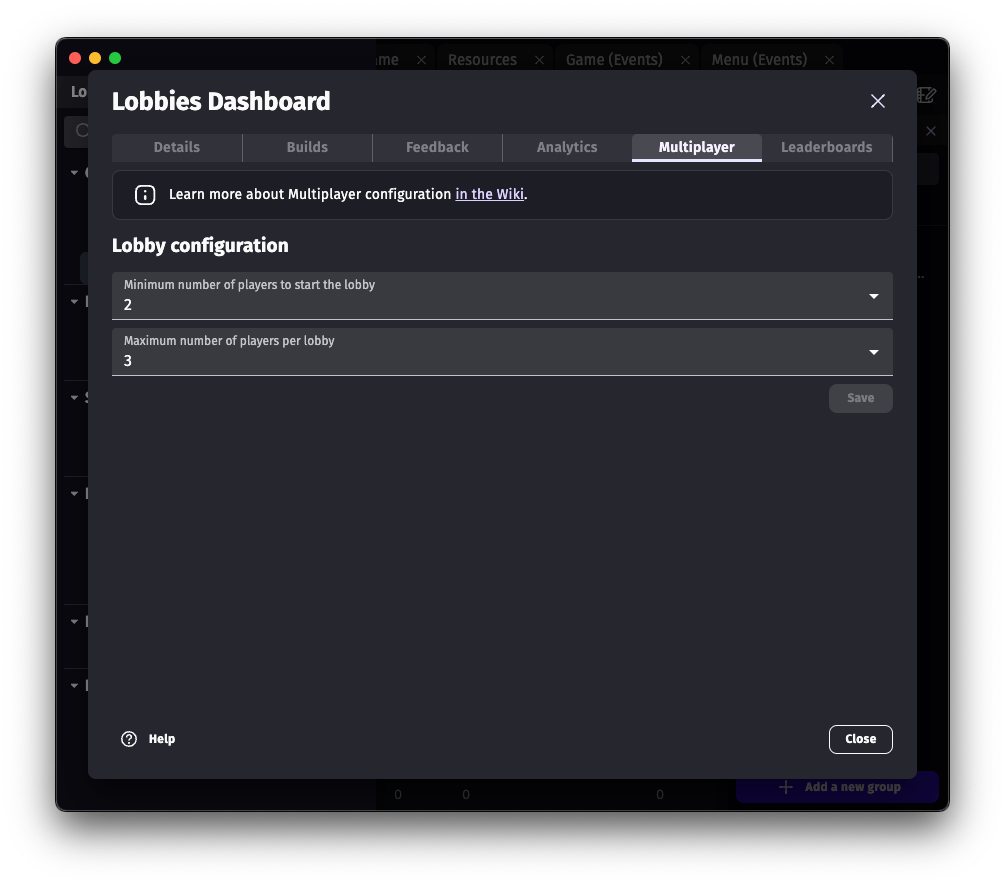
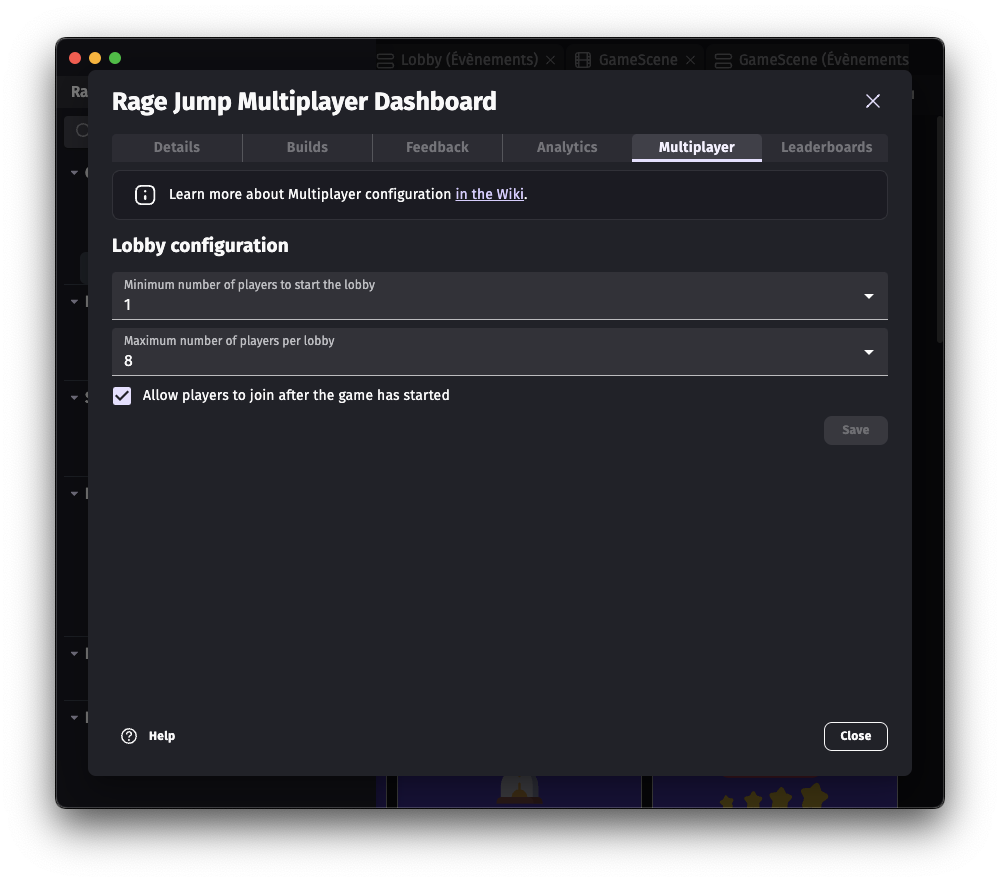
Add doc about joining mid-game

diff --git a/docs/gdevelop5/all-features/multiplayer/index.md b/docs/gdevelop5/all-features/multiplayer/index.md
@@ -65,13 +65,18 @@ Lobbies in preview are different than the lobbies when the game is published, al
 ### Configuring the lobby
 
 Lobbies are automatically created for your game.
-If you want to customize them, such as the number of players needed to start a game or the maximum number of players, head to your game dashboard in the editor.
+If you want to customize them, head to your game dashboard in the editor.
+For the moment you can:
+
+- Define the number of players needed to start a game
+- Define the maximum number of players in a lobby
+- Define if players are allowed or not to join a game in progress
 
 ![Lobbies configuration in the game dashboard](./lobbies-configuration.png)
 
 ### Letting the players join a new game
 
-Use the action **Open game lobbies**. This action will show the lobbies to the player, so they can join a game.
+Use the action **Open game lobbies**. This action will show the lobbies to the player, so they can join a game. (empty or already started).
 
 ![Default Lobbies screen](./default-lobbies-screen.png)
 
@@ -112,6 +117,34 @@ Typically, you can use this condition to either start moving things in your game
 When developing the game, you can open multiple preview windows and join the same lobby with the same account. This way, you can test the multiplayer features without needing multiple devices.
 
 ![Open multiple preview windows to test a multiplayer game](./multiple-previews.png)
+
+### Letting players join a game in progress
+
+By default, a lobby allows players to join a game in progress. If your game shouldn't support this, you can disable this feature in the lobbies configuration.
+
+Good news, there isn't much to do to handle this!
+When a player joins a game in progress, they will be assigned a new playerNumber (not already used) and will automatically be synchronized with the other players and receive the current game state.
+Meaning:
+
+- Which scene the lobby was on,
+- The values of the global variables,
+- The values of the scene variables,
+- All the objects that are synchronized by the other players.
+
+This way, when a join a game in progress, the condition **Lobby game has just started** will turn true for this player, as if they were there from the beginning.
+
+If needed, you can use the conditions **Player is connected**, **Player has joined**, or **Player has left** to check if a player is connected, has joined the game, or has left the game.
+This can be useful for example if you want the host to:
+
+- Create a specific item for them when they join,
+- Adapt the difficulty of the game depending on the number of players,
+- Display a message to the other players when a player joins or leaves the game...
+
+??? tip
+
+      Be careful when using the condition **Player has joined**. When this condition turns true, it means that the player has joined the game, but it doesn't mean that their objects are synchronized yet. You might need to wait a few frames before using the objects owned by this player.
+
+      For example, do not assume that a character created by a player when they join the game will be accessible when the condition **Player has joined** turns true. Instead, adapt your events to always look at all the objects on the scene, and react depending on the ones that are present or not.
 
 ### Ending a game
 
@@ -309,4 +342,4 @@ Note that each player's scene will keep running unless you use the condition to 
 Missing features or limitations:
 
 - The lobby UI is not customizable yet.
-- Joining a lobby during the game is not yet possible, but will be introduced as a configurable option later. This will allow games to continue playing with players joining or leaving as long as the host continues playing.
+- When the host leaves, the game is ended for all players. We will introduce later the possibility to migrate automatically the host to another player.
